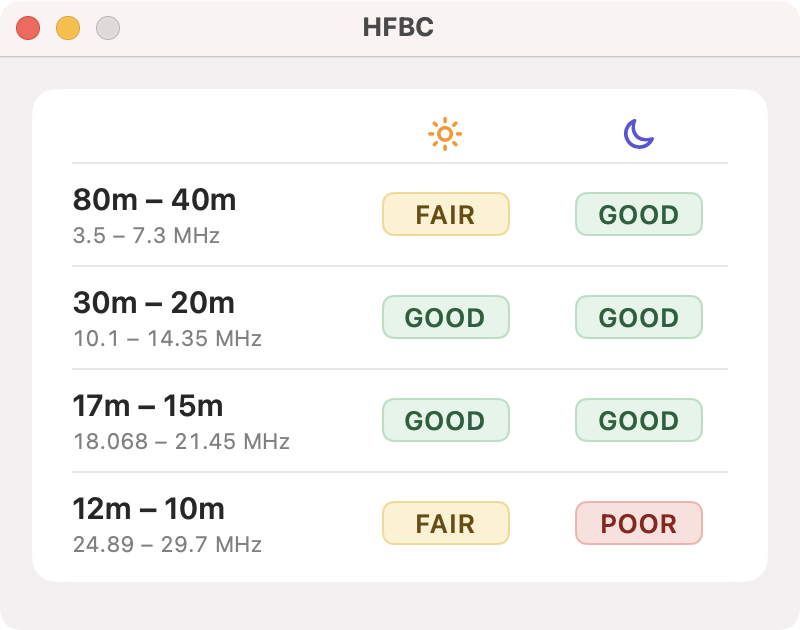
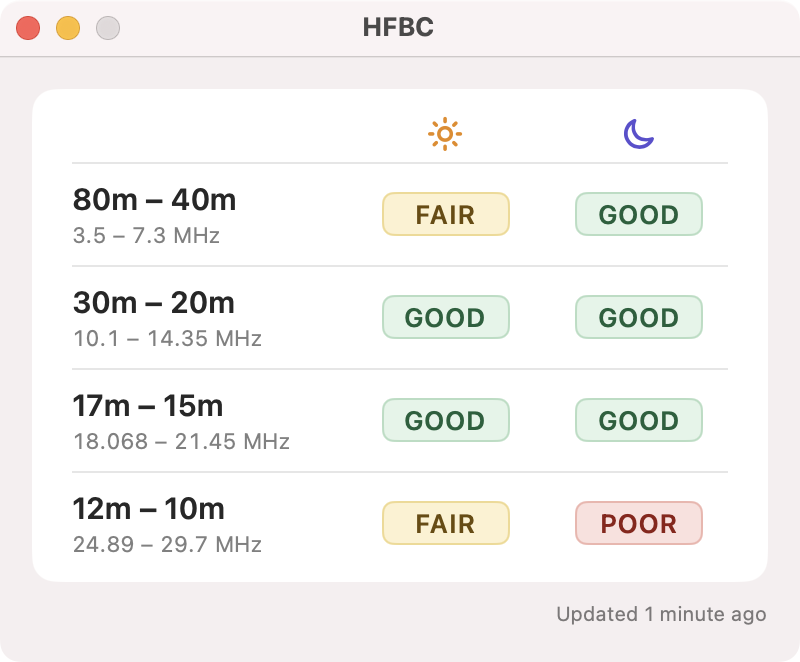
add loading and time since updated

Changed region(s): [[0.0938, 0.181, 0.9062, 0.8746], [0.0, 0.0302, 1.0, 0.0905], [0.6875, 0.9048, 0.9688, 0.9349]]

diff --git a/HFBC/ContentView.swift b/HFBC/ContentView.swift
@@ -16,10 +16,13 @@ struct ContentView: View {
 
 			Grid {
 				GridRow {
+					
 					Text("")
 						.font(.caption.weight(.semibold))
 						.tracking(1)
 						.foregroundStyle(.secondary)
+					 
+	
 					Image(systemName: "sun.max")
 						.font(.title3.weight(.bold))
 						.foregroundStyle(Color(hex: scheme == .dark ? 0xF5B44A : 0xE8890C))
@@ -66,7 +69,39 @@ struct ContentView: View {
         }
         //.padding()
 		//Text("Data: HAMQSL.com")
+		
+		HStack {
+			if dataManager.isLoading {
+				ProgressView().controlSize(.small).frame(alignment: .leading)
+			} else {
+				Color.clear
+					.frame(width: 16, height: 16)
+			}
+			Spacer()
+			TimelineView(.periodic(from: .now, by: 30)) { context in
+				let text = updatedText(for: dataManager.lastUpdated, now: context.date)
+
+				Text(text)
+					.font(.caption)
+					.foregroundStyle(.secondary)
+					.contentTransition(.opacity)
+					.animation(.easeInOut(duration: 0.4), value: text)
+			}
+		}
+		
     }
+	
+	private let relativeFormatter: RelativeDateTimeFormatter = {
+		let f = RelativeDateTimeFormatter()
+		f.unitsStyle = .full
+		return f
+	}()
+
+	func updatedText(for date: Date?, now: Date) -> String {
+		guard let date else { return "Not updated yet" }
+		if now.timeIntervalSince(date) < 60 { return "Updated just now" }
+		return "Updated " + relativeFormatter.localizedString(for: date, relativeTo: now)
+	}
 }
 
 #Preview {

diff --git a/HFBC/DataManager.swift b/HFBC/DataManager.swift
@@ -18,6 +18,9 @@ final class DataManager {
 	@ObservationIgnored var timer:Timer? = nil
 	let interval:TimeInterval = 15 * 60.0
 	
+	var isLoading:Bool = false
+	var lastUpdated: Date?
+	
 	var statuses:[Band:BandStatus] = [:]
 	
 	let dataURL:URL = URL(string: "https://www.hamqsl.com/solarxml.php")!
@@ -32,8 +35,15 @@ final class DataManager {
 						return
 					}
 					
+					self.isLoading = true
+					
+					defer {
+						self.isLoading = false
+					}
+					
 					let s = try await self.loadUTF8()
 					try self.parseXML(xml: s)
+					self.lastUpdated = Date()
 				} catch {
 	
 					Logger.app.error("Failed to load and parse XML: \(error)")
